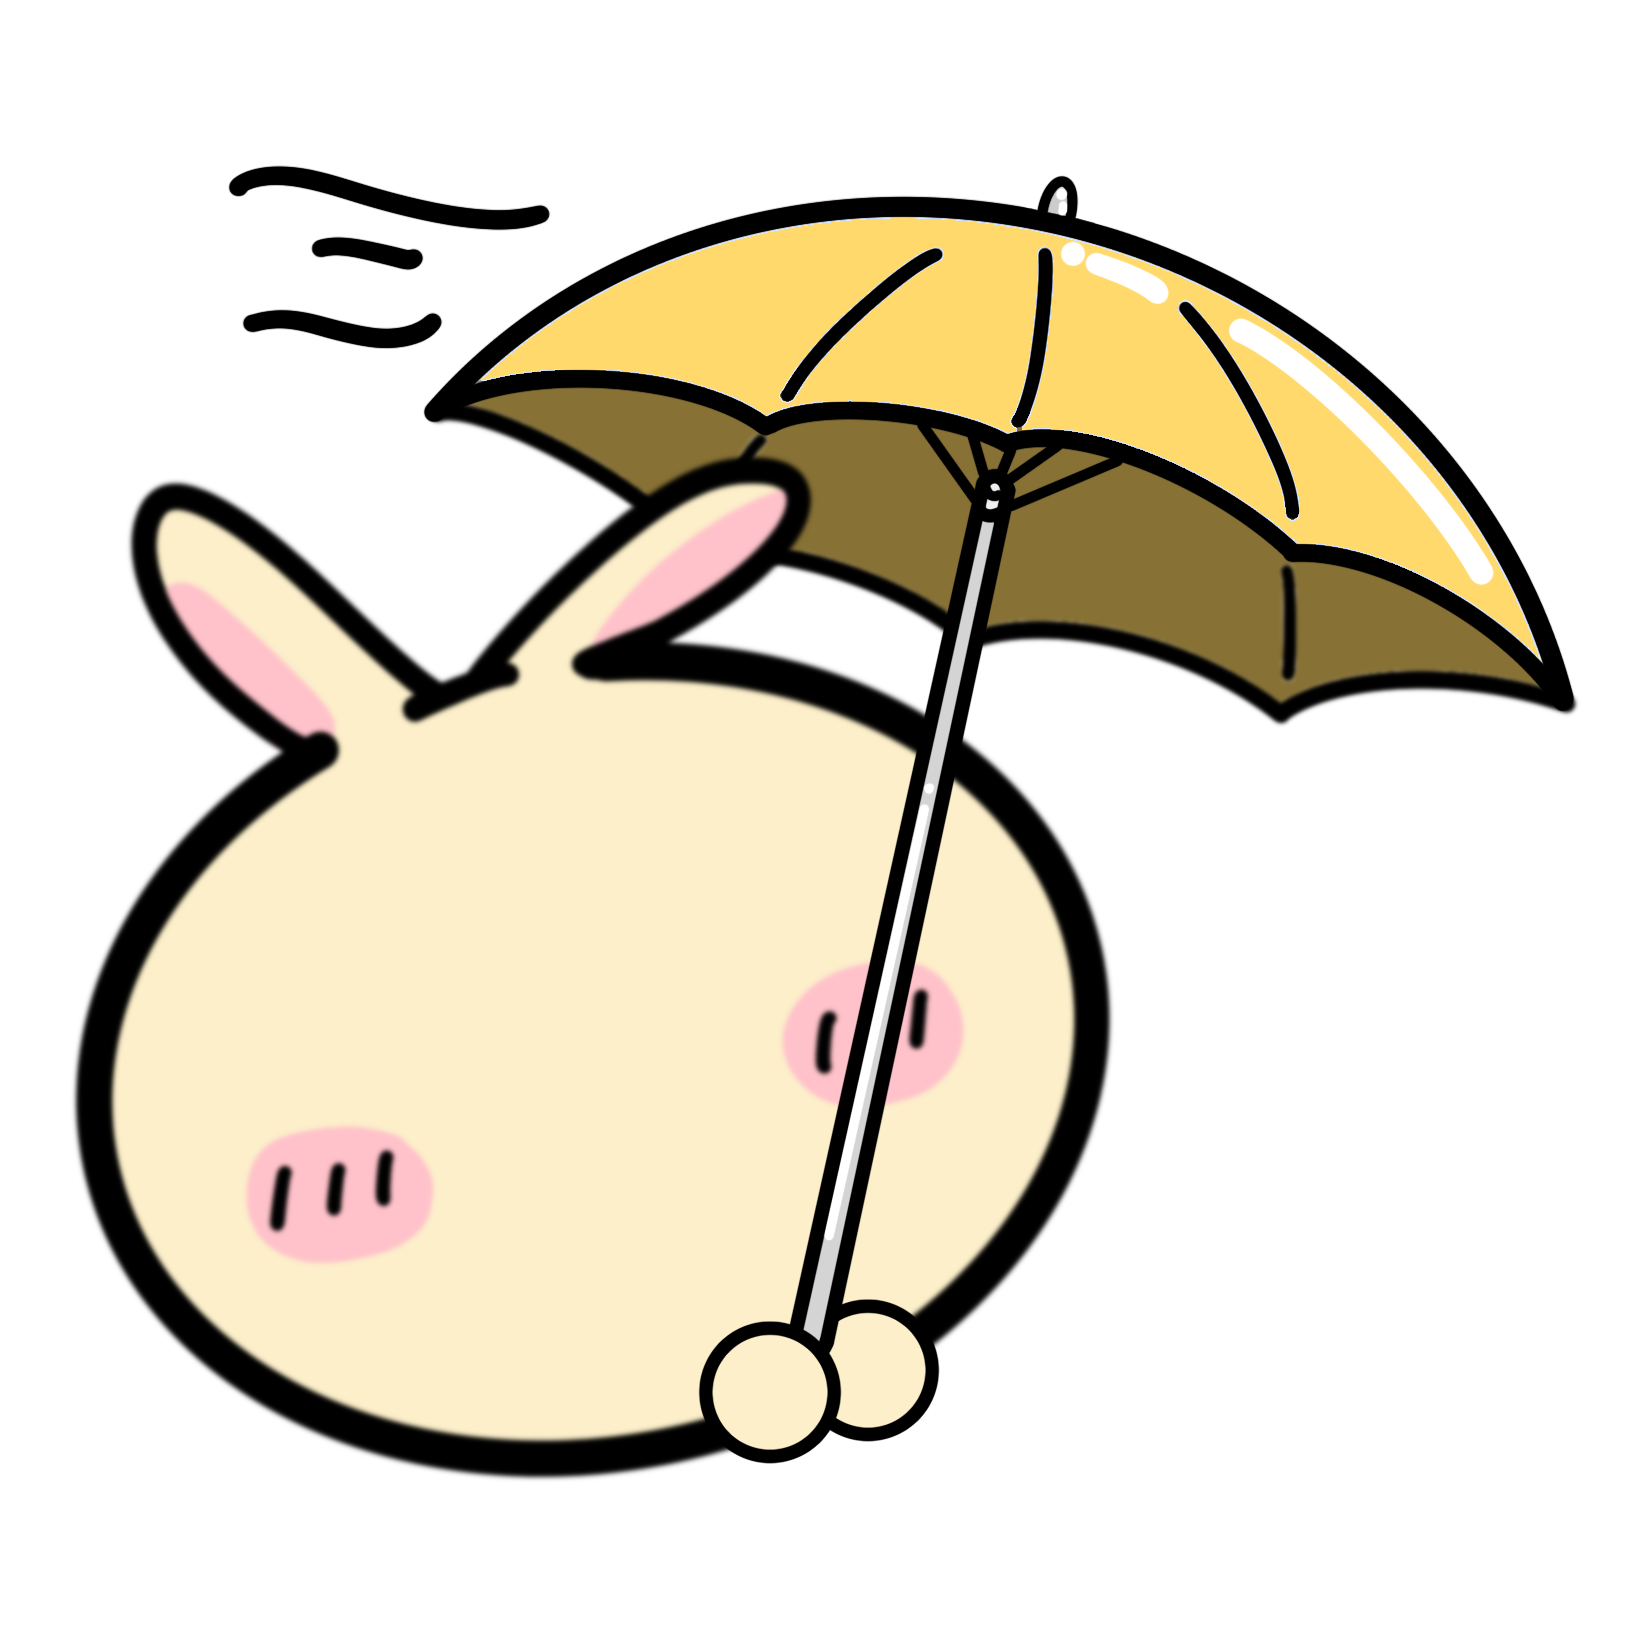
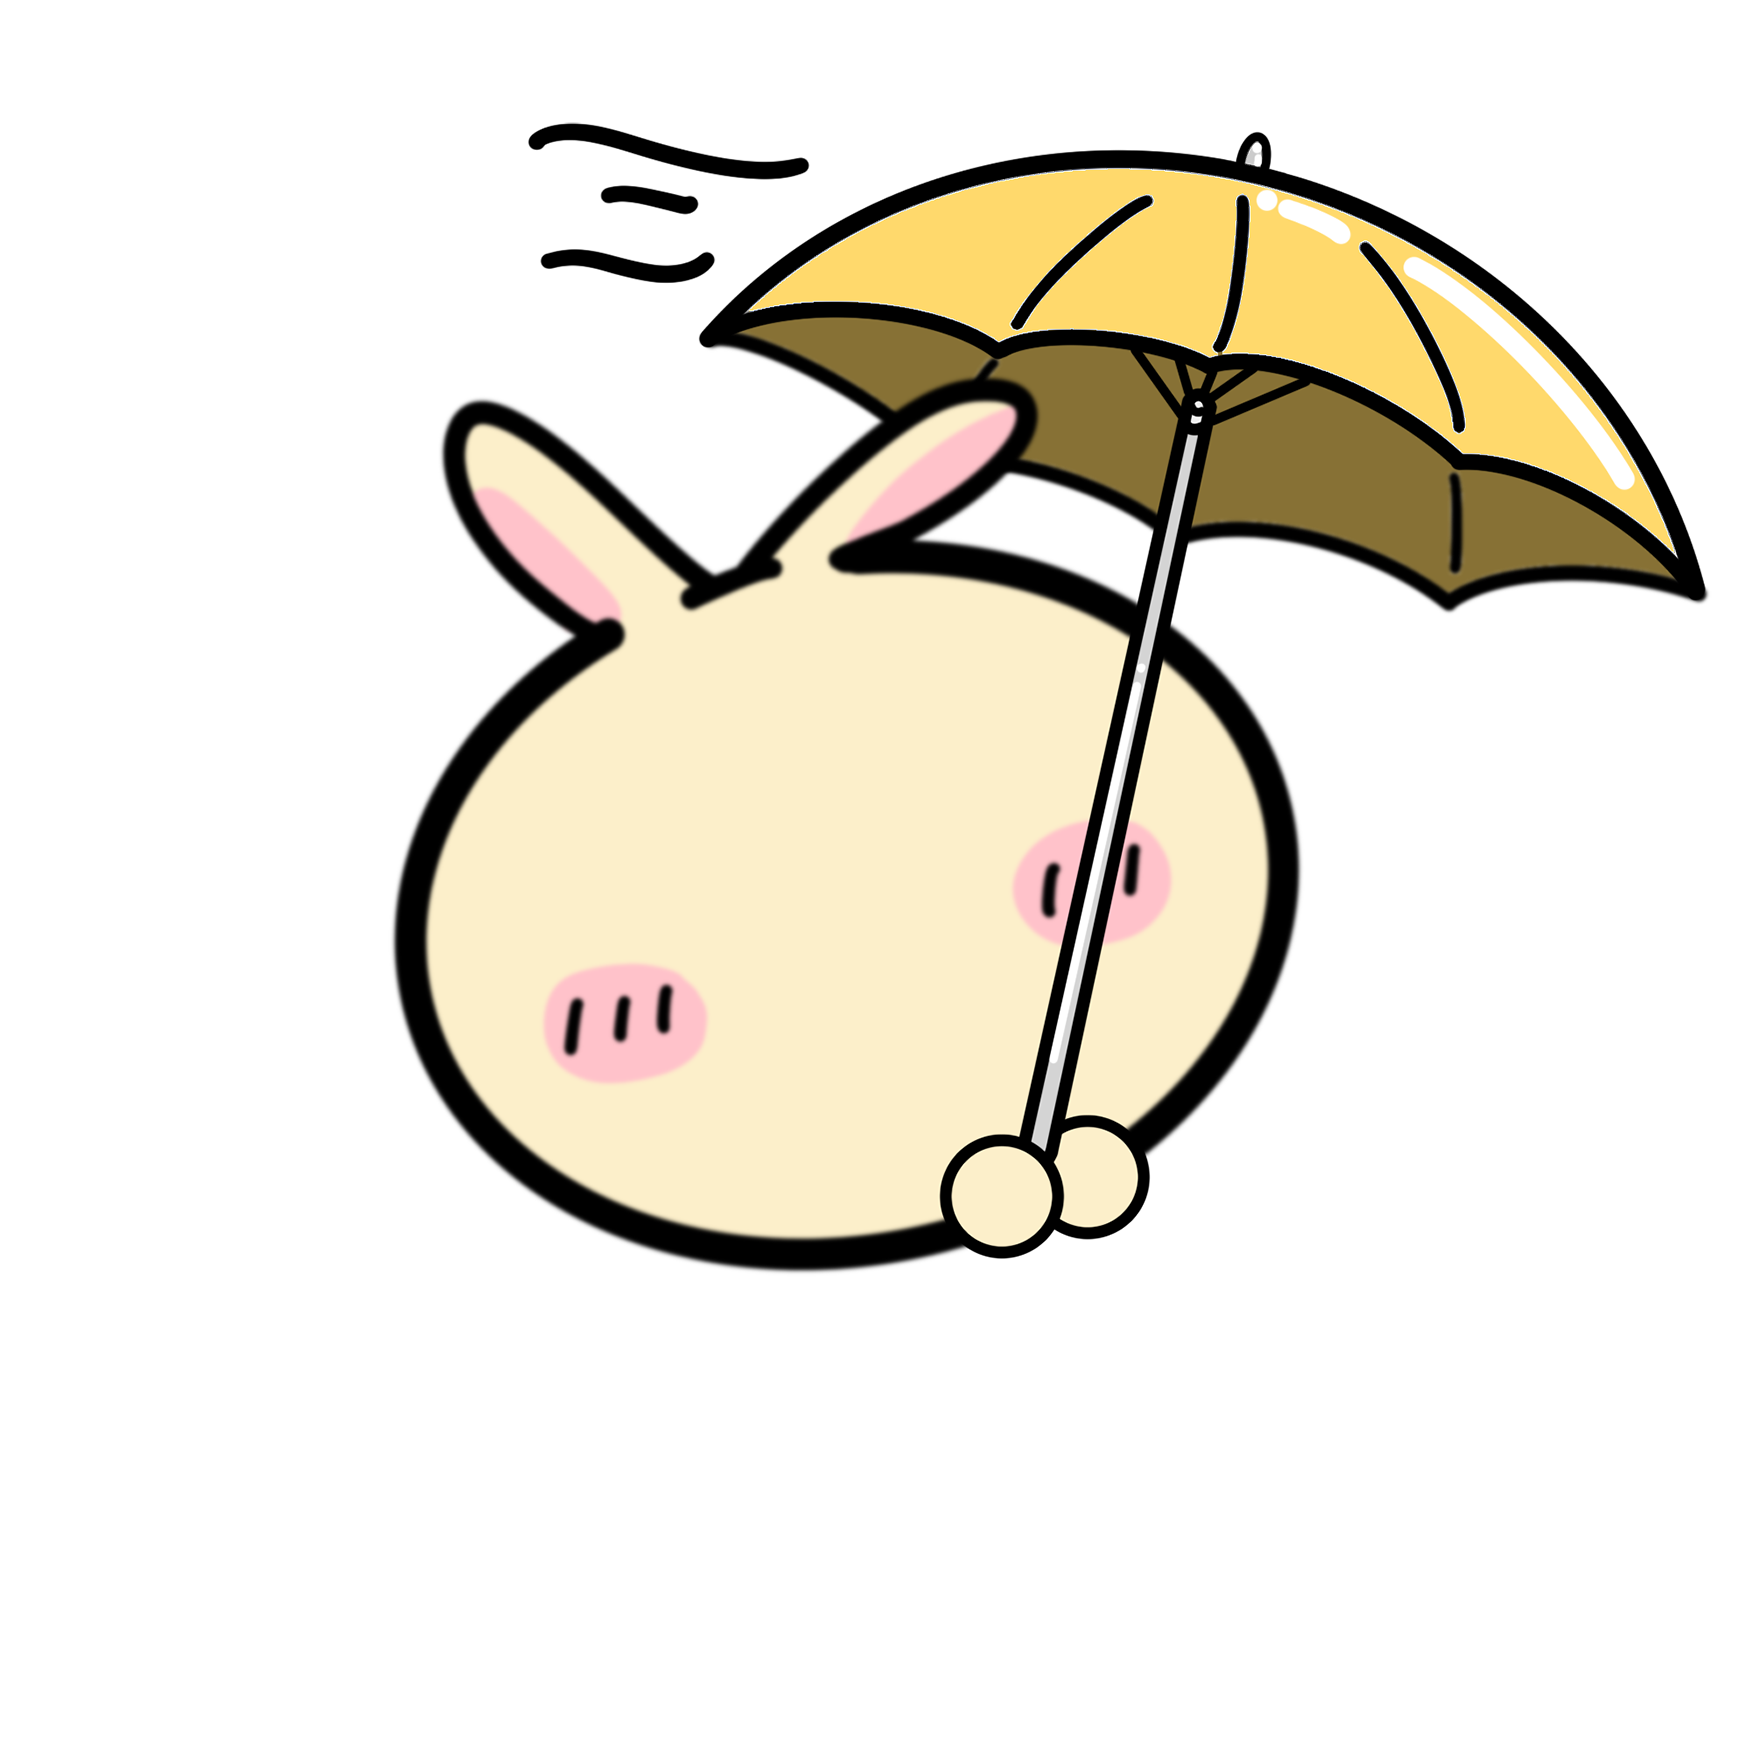
add umbrella option

diff --git a/tiikawapose.py b/tiikawapose.py
@@ -199,6 +199,33 @@ def calculate_distance(landmark1, landmark2, image_width, image_height):
     return math.sqrt((x2 - x1) ** 2 + (y2 - y1) ** 2)
 
 
+# 顔の下で手を合わせているかどうかの関数
+def is_hands_joined_below_face(landmarks, image_width, image_height, join_threshold=50, face_to_hand_ratio=0.5):
+
+    # 顔（鼻）と手のランドマークを取得
+    nose = landmarks[mp_pose.PoseLandmark.NOSE]
+    left_hand = landmarks[mp_pose.PoseLandmark.LEFT_INDEX]
+    right_hand = landmarks[mp_pose.PoseLandmark.RIGHT_INDEX]
+
+    # 顔と両手の座標を取得
+    nose_x, nose_y = int(nose.x * image_width), int(nose.y * image_height)
+    left_hand_x, left_hand_y = int(left_hand.x * image_width), int(left_hand.y * image_height)
+    right_hand_x, right_hand_y = int(right_hand.x * image_width), int(right_hand.y * image_height)
+
+    # 両手が顔の下にあるか
+    hands_below_face = left_hand_y > nose_y and right_hand_y > nose_y
+
+    # 両手のx座標が近い（手が合わせているとみなす閾値以下）か
+    hands_joined = abs(left_hand_x - right_hand_x) < join_threshold
+
+    # 手が顔に近い位置にあるか（手のy座標が顔の少し下にあること）
+    hands_close_to_face = (left_hand_y - nose_y) < (face_to_hand_ratio * image_height) and (right_hand_y - nose_y) < (face_to_hand_ratio * image_height)
+    
+    # すべての条件が満たされれば、顔の下で手を合わせていると判定
+    if hands_below_face and hands_joined and hands_close_to_face:
+        return True
+
+    return False
 
 
 # 片手が顔の近くにあるかを判定する関数
@@ -336,6 +363,9 @@ with mp_pose.Pose(min_detection_confidence=0.5, min_tracking_confidence=0.5) as 
             right_hand_raised = is_right_hand_raised(results.pose_landmarks.landmark, frame.shape[0])
             left_hand_raised = is_left_hand_raised(results.pose_landmarks.landmark, frame.shape[0])
 
+            # 両手を合わせているか判定
+            hands_joined = is_hands_joined_below_face(results.pose_landmarks.landmark, frame.shape[1], frame.shape[0])
+
             # 両手があがっているときキラキラ
             if right_hand_raised and left_hand_raised and not effect_active:
                 effect_active = True
@@ -364,6 +394,8 @@ with mp_pose.Pose(min_detection_confidence=0.5, min_tracking_confidence=0.5) as 
             # 顔画像の貼り付け
             if (right_hand_raised == True) and (hachi_flag == True):
                 image = overlay_image(image, mirai_hachi, (nose_x, nose_y), angle=0, scale=scale)
+            if (hands_joined == True) and (usagi_flag == True):
+                image = overlay_image(image, kasa_usagi, (nose_x, nose_y), angle=0, scale=scale)
             else:
                 image = overlay_image(image, face_image, (nose_x, nose_y), angle=0, scale=scale)
 
